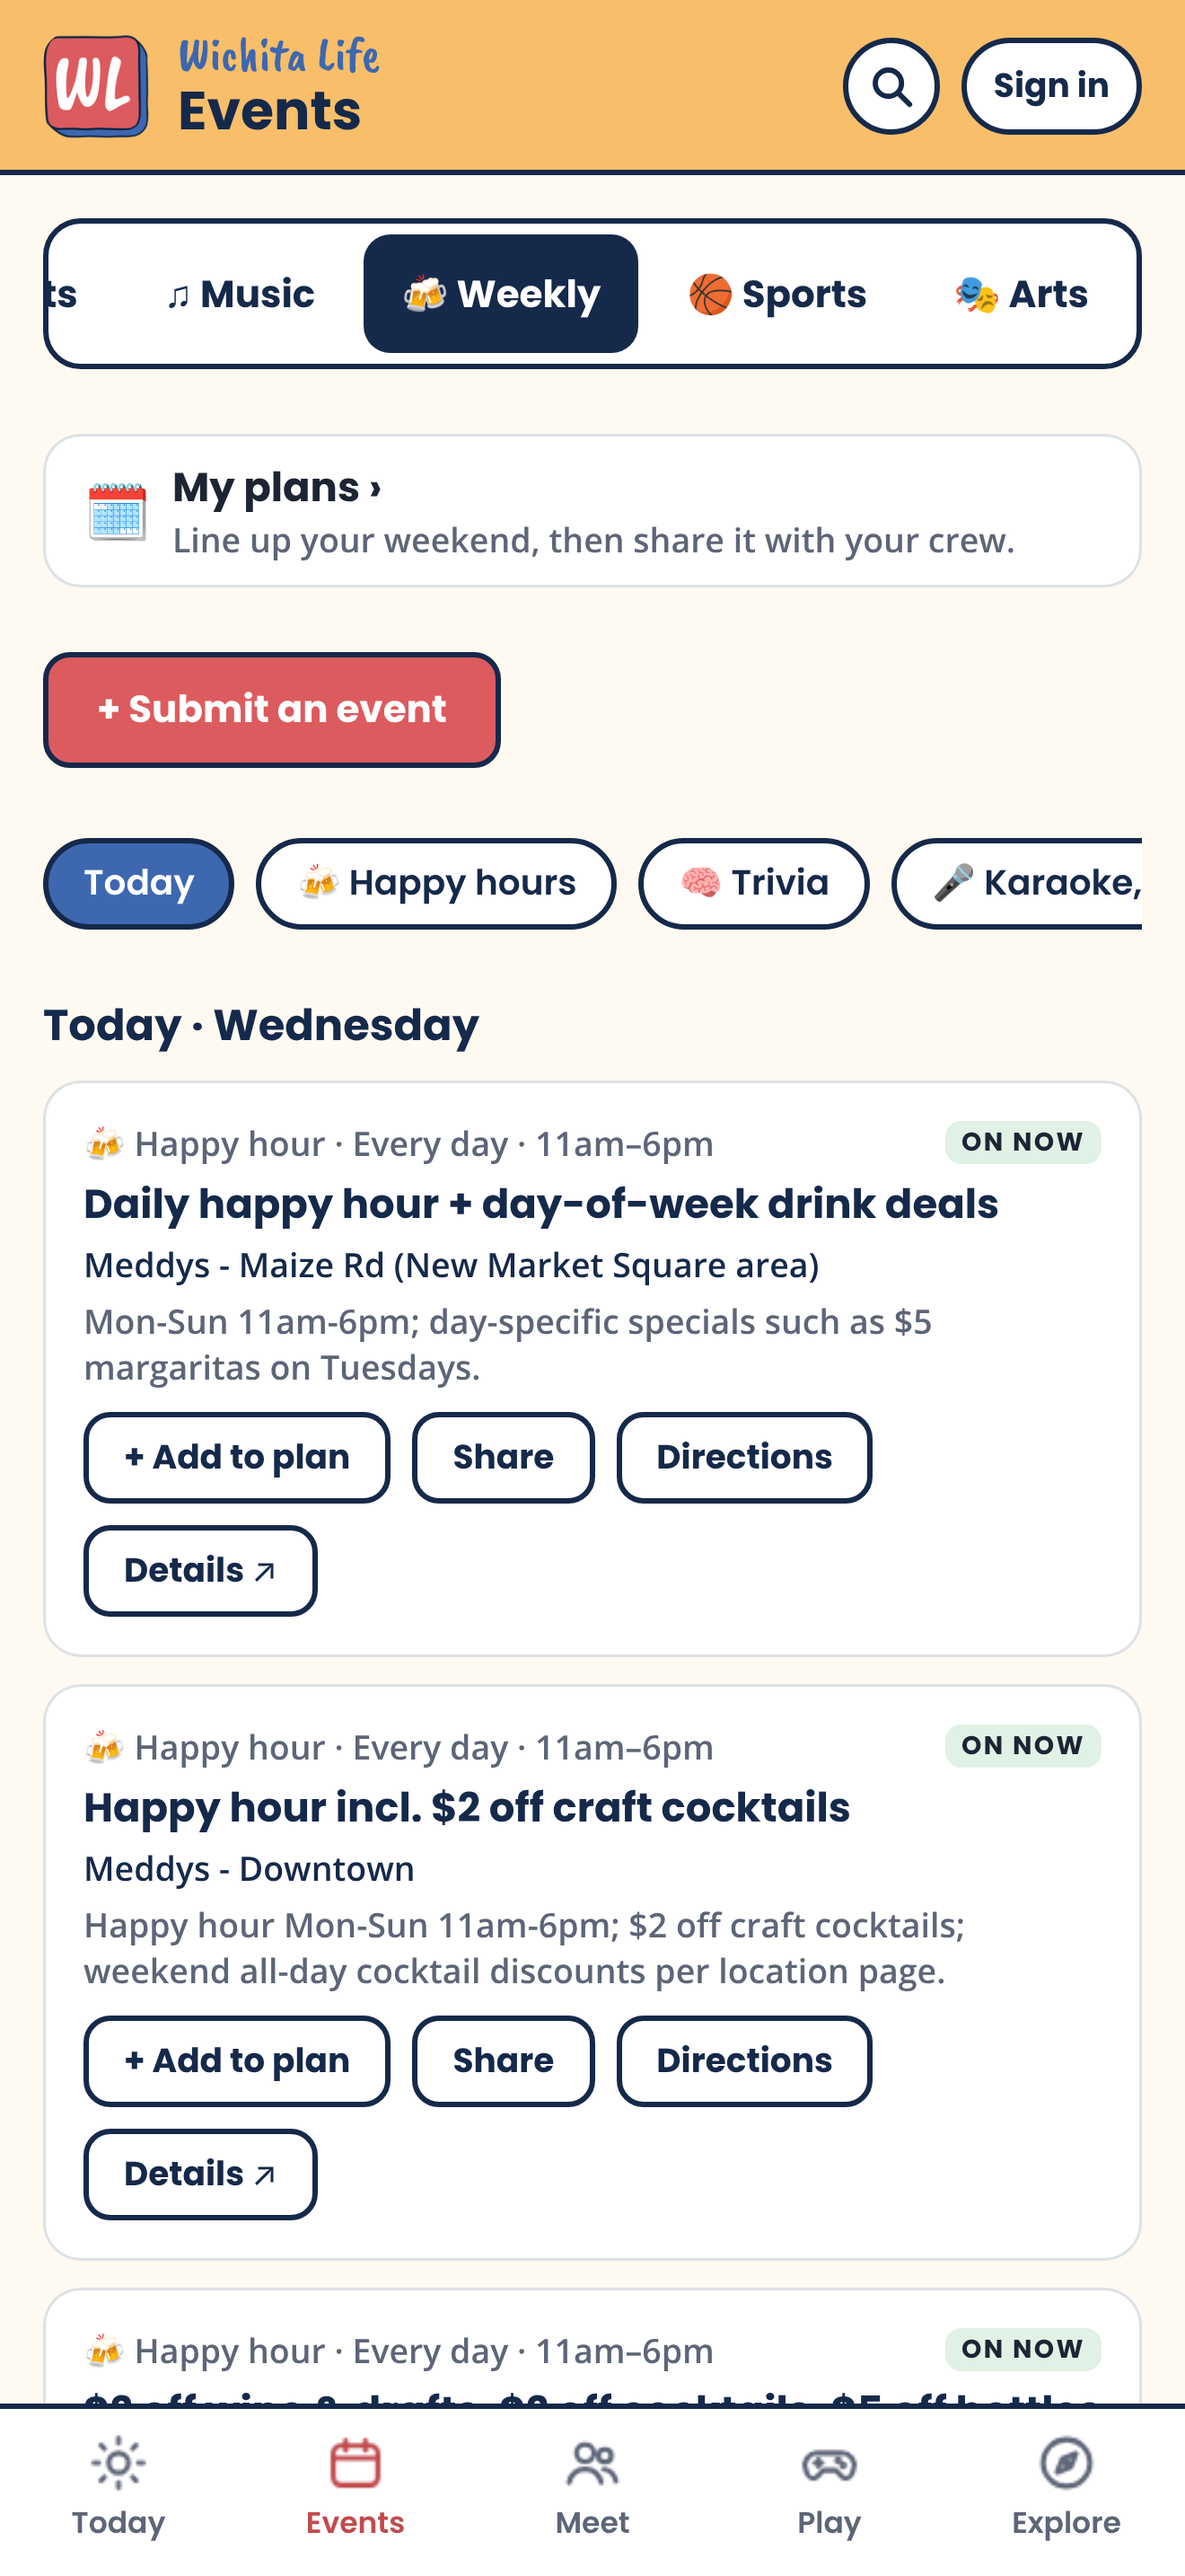
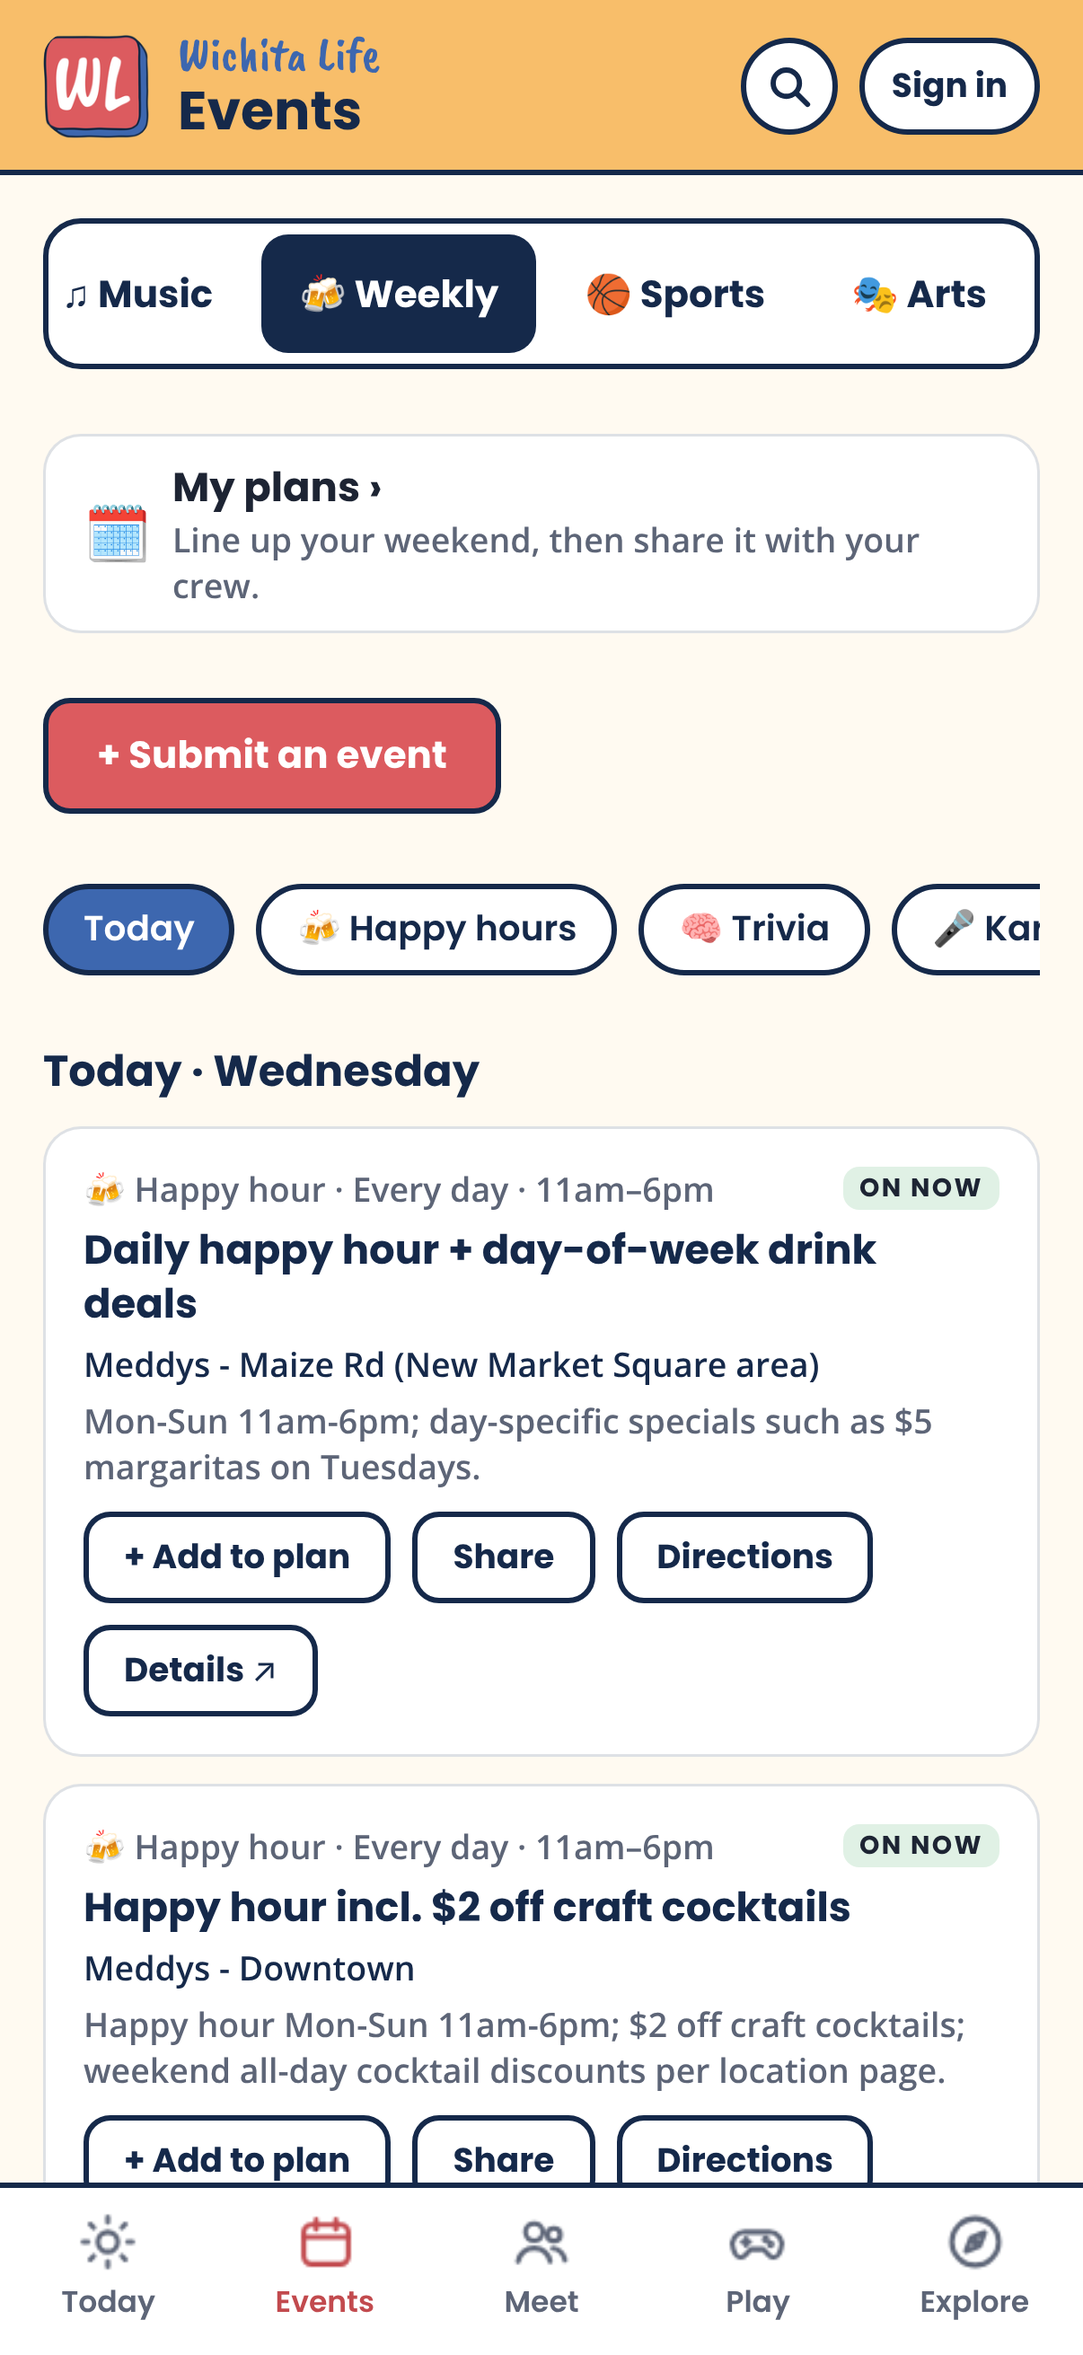
Store screenshots at 1206x2622 for Apple's iPhone (medium display) slot
Claude-Session: https://claude.ai/code/session_01RVvxjtAiL6j1MniaJt2d1E

diff --git a/docs/STORE_LISTING.md b/docs/STORE_LISTING.md
@@ -143,6 +143,6 @@ Paste into App Review Information → Notes:
 
 1. ✅ **Sign in with Apple** is in the app. To turn it on: Supabase → Authentication → Sign In / Providers → Apple → enable, and put `com.wichitalifeict.app` in Client IDs (no secret key is needed for the iPhone app).
 2. ✅ **A reviewer login.** The sign-in screen has "Have a password? Sign in with it". Create the account in Supabase → Authentication → Users → Add user → Create new user: `appreview@wichitalifeict.com`, a strong password, Auto Confirm on. Paste the same email and password into App Store Connect → App Review Information (and Google Play → App access).
-3. **Screenshots.** Ready in `store/screenshots/`: `iphone/` (1320 × 2868, the 6.9" size App Store Connect asks for) and `android/` (phone). Upload them in file-name order, 1 to 8: Today, Events, Live music, a Plan, Happy hours & trivia, Where to eat, Play (giveaway), Meet. Retaken Nov 4 from the live app.
+3. **Screenshots.** Ready in `store/screenshots/`: `iphone/` (1206 × 2622, for the required "iPhone with Dynamic Island (medium display)" slot) and `android/` (phone). Upload them in file-name order, 1 to 8: Today, Events, Live music, a Plan, Happy hours & trivia, Where to eat, Play (giveaway), Meet. Retaken Nov 4 from the live app.
 4. **Remove the sample content** (giveaway, meetups, groups) and have at least one real giveaway or vote live, since reviewers try everything.
 5. **Lawyer review** of the privacy policy, terms and giveaway rules. The privacy policy must mention PostHog, Supabase and Resend.

diff --git a/store/README.md b/store/README.md
@@ -1,6 +1,6 @@
 # Store files
 
-- `screenshots/iphone/`: App Store screenshots, 1320 × 2868 (iPhone 6.9" display). Upload in order, 1 to 8.
+- `screenshots/iphone/`: App Store screenshots, 1206 × 2622, for the required "iPhone with Dynamic Island (medium display)" slot. Upload in order, 1 to 8. (Apple stopped taking 1320 × 2868 in that slot in late 2026; the optional iPhone Duo slot uses 1398 × 2034 and 2007 × 2853.)
 - `screenshots/android/`: Google Play phone screenshots. Same order.
 
 Store text (description, keywords, reviewer notes) is in `docs/STORE_LISTING.md`; the App Privacy and
